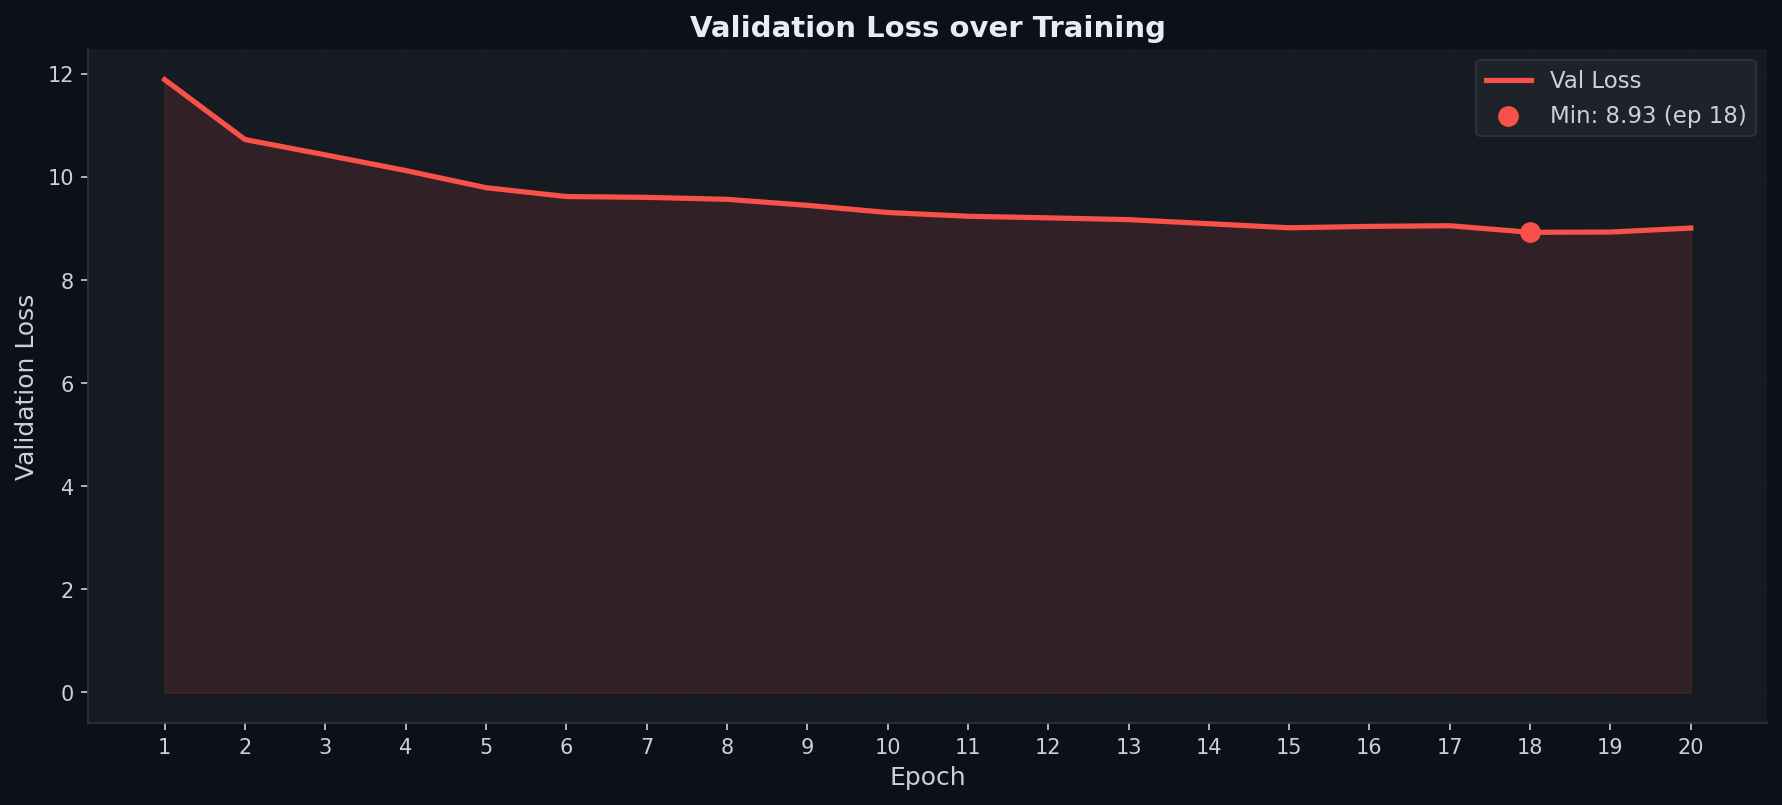
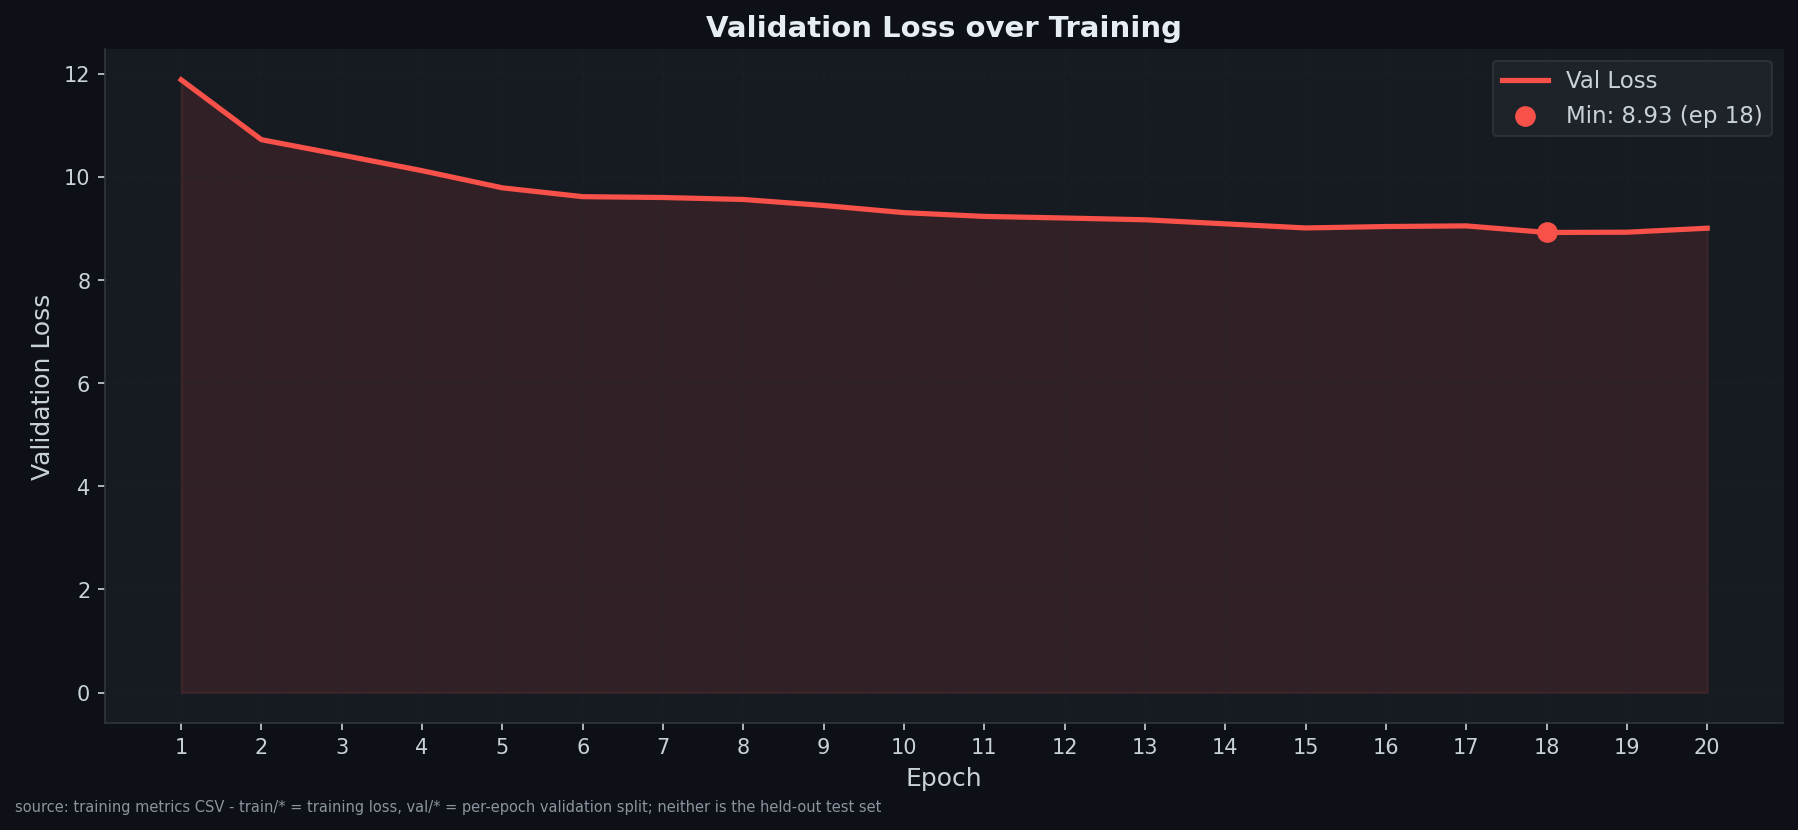
Fix smoothing window and label training charts as non-test data
A window of 1 made rolling(...).mean() the identity, so 'smoothed' curves were the raw series under a misleading legend. Windows below 3 points are now dropped instead of drawn.

Every chart is stamped with its source: train/* is training loss and val/* is the per-epoch validation split, neither of which is the held-out test set. Charts regenerated.

diff --git a/evaluation/Car Damage/Training and Validation/plot_training_metrics.py b/evaluation/Car Damage/Training and Validation/plot_training_metrics.py
@@ -35,6 +35,17 @@ import matplotlib.pyplot as plt
 import matplotlib.patches as mpatches
 from matplotlib.gridspec import GridSpec
 
+# A Windows console defaults to cp1252, which cannot encode the arrows, box
+# characters and check marks used throughout the messages below: the very first
+# print raises UnicodeEncodeError and the script dies before doing any work.
+# Force UTF-8 on the streams that support it.
+for _stream in (sys.stdout, sys.stderr):
+    try:
+        _stream.reconfigure(encoding="utf-8")
+    except Exception:
+        pass
+
+
 # ── CONSTANTS ─────────────────────────────────────────────────────────────────
 CLASSES = ["crack", "dent", "glass shatter", "lamp broken", "scratch", "tire flat"]
 
@@ -108,10 +119,73 @@ def _best_epoch_line(ax, epochs, values, color):
 def _savefig(fig, path, tight=True):
     if tight:
         fig.tight_layout()
+    _stamp_source(fig)
     fig.savefig(path, dpi=150, bbox_inches="tight",
                 facecolor=fig.get_facecolor())
     plt.close(fig)
     print(f"  [PLOT] Saved → {path}")
+
+
+# ── SMOOTHING ─────────────────────────────────────────────────────────────────
+def _smooth_window(n, divisor=20, min_window=3):
+    """
+    Rolling-mean window for a series of n points, or None when a rolling mean
+    would change nothing.
+
+    The window used to be `n // divisor` floored at 1, which is 1 for any
+    series shorter than 40 points -- and a rolling mean of width 1 is the
+    identity. RF-DETR logs one train row per epoch, so this run has 20 of them
+    and the window was always 1: the "smoothed" curve was the raw curve drawn a
+    second time in a heavier stroke, beneath a legend entry advertising
+    smoothing that never happened. A reader takes the heavy line for a trend
+    and the faint one for noise around it, when they are the same numbers.
+    Returning None instead lets the caller draw a single honest line.
+    """
+    w = max(1, int(n) // divisor)
+    return w if w >= min_window else None
+
+
+def _roll(series, w):
+    """Rolling mean when w is a real window, otherwise the series untouched."""
+    return series.rolling(w, center=True, min_periods=1).mean() if w else series
+
+
+def _plot_series(ax, x, raw, color, label, w, lw=2.5, fill=True,
+                 fill_alpha=0.10, raw_lw=1.2, raw_alpha=0.30):
+    """
+    Plot `raw`, overlaying a rolling mean only when `w` is a real window.
+    Returns the series drawn as the primary line.
+    """
+    if w:
+        ax.plot(x, raw, color=color, lw=raw_lw, alpha=raw_alpha, label="Raw")
+        series = _roll(raw, w)
+        lbl = f"{label} (rolling mean, w={w})"
+    else:
+        series = raw
+        lbl = label
+    ax.plot(x, series, color=color, lw=lw, label=lbl)
+    if fill:
+        ax.fill_between(x, series, alpha=fill_alpha, color=color)
+    return series
+
+
+# ── PROVENANCE ────────────────────────────────────────────────────────────────
+# Every figure here comes from the training CSV: train/* are training-time
+# losses, val/* are the split RF-DETR scored at the end of each epoch. Neither
+# is the held-out test set, and the val/* numbers are NOT the test-set results
+# produced by evaluate_rfdetr_*.py -- those use a different evaluator
+# configuration and must never be quoted interchangeably with these. Each
+# figure carries the line below so a chart lifted out of this directory and
+# dropped into a report still states which split it came from.
+SPLIT_NOTE = ("source: training metrics CSV - train/* = training loss, "
+              "val/* = per-epoch validation split; neither is the held-out "
+              "test set")
+
+
+def _stamp_source(fig):
+    fig.text(0.005, 0.002, SPLIT_NOTE, fontsize=7, color="#8B949E",
+             ha="left", va="bottom")
+
 
 
 # ── DATA LOADING ──────────────────────────────────────────────────────────────
@@ -278,13 +352,8 @@ def plot_train_loss_total(train_df, out):
     fig, ax = plt.subplots(figsize=(12, 5.5))
 
     st = train_df["step_f"]
-    ax.plot(st, train_df["train/loss"], color=C_LOSS, lw=2.0, alpha=0.4, label="Raw")
-
-    # Smoothed
-    w = max(1, len(train_df) // 20)
-    smoothed = train_df["train/loss"].rolling(w, center=True, min_periods=1).mean()
-    ax.plot(st, smoothed, color=C_LOSS, lw=2.5, label=f"Smoothed (w={w})")
-    ax.fill_between(st, smoothed, alpha=0.10, color=C_LOSS)
+    w  = _smooth_window(len(train_df))
+    _plot_series(ax, st, train_df["train/loss"], C_LOSS, "Total loss", w)
 
     ax.set_xlabel("Training Step", fontsize=12)
     ax.set_ylabel("Total Loss", fontsize=12)
@@ -313,7 +382,7 @@ def plot_train_loss_components(train_df, out):
                  fontsize=14, fontweight="bold", color="#E6EDF3", y=1.01)
 
     st = train_df["step_f"]
-    w  = max(1, len(train_df) // 20)
+    w  = _smooth_window(len(train_df))
 
     for idx, (label, (col_name, color)) in enumerate(components.items()):
         ax = axes[idx // 3][idx % 3]
@@ -321,11 +390,8 @@ def plot_train_loss_components(train_df, out):
             ax.set_visible(False)
             continue
 
-        raw      = train_df[col_name]
-        smoothed = raw.rolling(w, center=True, min_periods=1).mean()
-        ax.plot(st, raw,      color=color, lw=1.2, alpha=0.30)
-        ax.plot(st, smoothed, color=color, lw=2.2, label=label)
-        ax.fill_between(st, smoothed, alpha=0.12, color=color)
+        _plot_series(ax, st, train_df[col_name], color, label, w,
+                     lw=2.2, fill_alpha=0.12)
 
         ax.set_title(label, fontsize=11, fontweight="bold", color=color)
         ax.set_xlabel("Step", fontsize=9)
@@ -335,7 +401,7 @@ def plot_train_loss_components(train_df, out):
     ax = axes[1][2]
     for label, (col_name, color) in components.items():
         if col_name in train_df.columns:
-            sm = train_df[col_name].rolling(w, center=True, min_periods=1).mean()
+            sm = _roll(train_df[col_name], w)
             ax.plot(st, sm, color=color, lw=1.8, label=label)
     ax.set_title("All Components (overlay)", fontsize=11, fontweight="bold")
     ax.set_xlabel("Step"); ax.set_ylabel("Loss")
@@ -365,13 +431,13 @@ def plot_train_loss_auxiliary(train_df, out):
                  fontsize=14, fontweight="bold", color="#E6EDF3", y=1.01)
 
     st = train_df["step_f"]
-    w  = max(1, len(train_df) // 20)
+    w  = _smooth_window(len(train_df))
 
     for idx, (group_label, cols) in enumerate(aux_groups.items()):
         ax = axes[idx // 2][idx % 2]
         for ci, (col, lbl) in enumerate(zip(cols, layer_labels)):
             if col in train_df.columns:
-                sm = train_df[col].rolling(w, center=True, min_periods=1).mean()
+                sm = _roll(train_df[col], w)
                 ax.plot(st, sm, color=layer_colors[ci], lw=1.8, label=lbl)
 
         ax.set_title(group_label, fontsize=11, fontweight="bold")
@@ -509,7 +575,7 @@ def plot_cardinality_error(train_df, out):
     fig, ax = plt.subplots(figsize=(12, 5.0))
 
     st = train_df["step_f"]
-    w  = max(1, len(train_df) // 20)
+    w  = _smooth_window(len(train_df))
 
     layers = {
         "Main":    ("train/cardinality_error",   "#58A6FF"),
@@ -522,7 +588,7 @@ def plot_cardinality_error(train_df, out):
 
     for lbl, (col, color) in layers.items():
         if col in train_df.columns:
-            sm = train_df[col].rolling(w, center=True, min_periods=1).mean()
+            sm = _roll(train_df[col], w)
             ax.plot(st, sm, color=color, lw=1.8, label=lbl)
 
     ax.set_xlabel("Training Step", fontsize=12)
@@ -544,16 +610,13 @@ def plot_combined_dashboard(val_df, train_df, out):
 
     ep = val_df["epoch_f"]
     st = train_df["step_f"]
-    w  = max(1, len(train_df) // 20)
+    w  = _smooth_window(len(train_df))
 
     # ─── Top-left: Training loss ───────────────────────────────────────────
     ax1 = fig.add_subplot(gs[0, 0])
     ax1.set_facecolor("#161B22")
-    raw      = train_df["train/loss"]
-    smoothed = raw.rolling(w, center=True, min_periods=1).mean()
-    ax1.plot(st, raw,      color=C_LOSS, lw=1.0, alpha=0.30)
-    ax1.plot(st, smoothed, color=C_LOSS, lw=2.5, label="Total loss (smoothed)")
-    ax1.fill_between(st, smoothed, alpha=0.10, color=C_LOSS)
+    _plot_series(ax1, st, train_df["train/loss"], C_LOSS, "Total loss", w,
+                 raw_lw=1.0)
     ax1.set_title("Training Loss", fontsize=12, fontweight="bold")
     ax1.set_xlabel("Step"); ax1.set_ylabel("Loss")
     ax1.legend(fontsize=9)

diff --git a/evaluation/Car Parts/Training and Validation/plot_parts_metrics.py b/evaluation/Car Parts/Training and Validation/plot_parts_metrics.py
@@ -36,6 +36,17 @@ import matplotlib.pyplot as plt
 import matplotlib.patches as mpatches
 from matplotlib.gridspec import GridSpec
 
+# A Windows console defaults to cp1252, which cannot encode the arrows, box
+# characters and check marks used throughout the messages below: the very first
+# print raises UnicodeEncodeError and the script dies before doing any work.
+# Force UTF-8 on the streams that support it.
+for _stream in (sys.stdout, sys.stderr):
+    try:
+        _stream.reconfigure(encoding="utf-8")
+    except Exception:
+        pass
+
+
 # ── CONSTANTS ─────────────────────────────────────────────────────────────────
 # CSV column suffix → display label
 CLASSES = [
@@ -167,10 +178,73 @@ def _best_epoch_line(ax, epochs, values, color):
 def _savefig(fig, path, tight=True):
     if tight:
         fig.tight_layout()
+    _stamp_source(fig)
     fig.savefig(path, dpi=150, bbox_inches="tight",
                 facecolor=fig.get_facecolor())
     plt.close(fig)
     print(f"  [PLOT] Saved → {path}")
+
+
+# ── SMOOTHING ─────────────────────────────────────────────────────────────────
+def _smooth_window(n, divisor=20, min_window=3):
+    """
+    Rolling-mean window for a series of n points, or None when a rolling mean
+    would change nothing.
+
+    The window used to be `n // divisor` floored at 1, which is 1 for any
+    series shorter than 40 points -- and a rolling mean of width 1 is the
+    identity. RF-DETR logs one train row per epoch, so this run has 20 of them
+    and the window was always 1: the "smoothed" curve was the raw curve drawn a
+    second time in a heavier stroke, beneath a legend entry advertising
+    smoothing that never happened. A reader takes the heavy line for a trend
+    and the faint one for noise around it, when they are the same numbers.
+    Returning None instead lets the caller draw a single honest line.
+    """
+    w = max(1, int(n) // divisor)
+    return w if w >= min_window else None
+
+
+def _roll(series, w):
+    """Rolling mean when w is a real window, otherwise the series untouched."""
+    return series.rolling(w, center=True, min_periods=1).mean() if w else series
+
+
+def _plot_series(ax, x, raw, color, label, w, lw=2.5, fill=True,
+                 fill_alpha=0.10, raw_lw=1.2, raw_alpha=0.30):
+    """
+    Plot `raw`, overlaying a rolling mean only when `w` is a real window.
+    Returns the series drawn as the primary line.
+    """
+    if w:
+        ax.plot(x, raw, color=color, lw=raw_lw, alpha=raw_alpha, label="Raw")
+        series = _roll(raw, w)
+        lbl = f"{label} (rolling mean, w={w})"
+    else:
+        series = raw
+        lbl = label
+    ax.plot(x, series, color=color, lw=lw, label=lbl)
+    if fill:
+        ax.fill_between(x, series, alpha=fill_alpha, color=color)
+    return series
+
+
+# ── PROVENANCE ────────────────────────────────────────────────────────────────
+# Every figure here comes from the training CSV: train/* are training-time
+# losses, val/* are the split RF-DETR scored at the end of each epoch. Neither
+# is the held-out test set, and the val/* numbers are NOT the test-set results
+# produced by evaluate_rfdetr_*.py -- those use a different evaluator
+# configuration and must never be quoted interchangeably with these. Each
+# figure carries the line below so a chart lifted out of this directory and
+# dropped into a report still states which split it came from.
+SPLIT_NOTE = ("source: training metrics CSV - train/* = training loss, "
+              "val/* = per-epoch validation split; neither is the held-out "
+              "test set")
+
+
+def _stamp_source(fig):
+    fig.text(0.005, 0.002, SPLIT_NOTE, fontsize=7, color="#8B949E",
+             ha="left", va="bottom")
+
 
 
 # ── DATA LOADING ──────────────────────────────────────────────────────────────
@@ -341,13 +415,8 @@ def plot_train_loss_total(train_df, out):
     fig, ax = plt.subplots(figsize=(12, 5.5))
 
     st = train_df["step_f"]
-    ax.plot(st, train_df["train/loss"], color=C_LOSS, lw=2.0, alpha=0.4, label="Raw")
-
-    # Smoothed
-    w = max(1, len(train_df) // 20)
-    smoothed = train_df["train/loss"].rolling(w, center=True, min_periods=1).mean()
-    ax.plot(st, smoothed, color=C_LOSS, lw=2.5, label=f"Smoothed (w={w})")
-    ax.fill_between(st, smoothed, alpha=0.10, color=C_LOSS)
+    w  = _smooth_window(len(train_df))
+    _plot_series(ax, st, train_df["train/loss"], C_LOSS, "Total loss", w)
 
     ax.set_xlabel("Training Step", fontsize=12)
     ax.set_ylabel("Total Loss", fontsize=12)
@@ -376,7 +445,7 @@ def plot_train_loss_components(train_df, out):
                  fontsize=14, fontweight="bold", color="#E6EDF3", y=1.01)
 
     st = train_df["step_f"]
-    w  = max(1, len(train_df) // 20)
+    w  = _smooth_window(len(train_df))
 
     for idx, (label, (col_name, color)) in enumerate(components.items()):
         ax = axes[idx // 3][idx % 3]
@@ -384,11 +453,8 @@ def plot_train_loss_components(train_df, out):
             ax.set_visible(False)
             continue
 
-        raw      = train_df[col_name]
-        smoothed = raw.rolling(w, center=True, min_periods=1).mean()
-        ax.plot(st, raw,      color=color, lw=1.2, alpha=0.30)
-        ax.plot(st, smoothed, color=color, lw=2.2, label=label)
-        ax.fill_between(st, smoothed, alpha=0.12, color=color)
+        _plot_series(ax, st, train_df[col_name], color, label, w,
+                     lw=2.2, fill_alpha=0.12)
 
         ax.set_title(label, fontsize=11, fontweight="bold", color=color)
         ax.set_xlabel("Step", fontsize=9)
@@ -398,7 +464,7 @@ def plot_train_loss_components(train_df, out):
     ax = axes[1][2]
     for label, (col_name, color) in components.items():
         if col_name in train_df.columns:
-            sm = train_df[col_name].rolling(w, center=True, min_periods=1).mean()
+            sm = _roll(train_df[col_name], w)
             ax.plot(st, sm, color=color, lw=1.8, label=label)
     ax.set_title("All Components (overlay)", fontsize=11, fontweight="bold")
     ax.set_xlabel("Step"); ax.set_ylabel("Loss")
@@ -428,13 +494,13 @@ def plot_train_loss_auxiliary(train_df, out):
                  fontsize=14, fontweight="bold", color="#E6EDF3", y=1.01)
 
     st = train_df["step_f"]
-    w  = max(1, len(train_df) // 20)
+    w  = _smooth_window(len(train_df))
 
     for idx, (group_label, cols) in enumerate(aux_groups.items()):
         ax = axes[idx // 2][idx % 2]
         for ci, (col, lbl) in enumerate(zip(cols, layer_labels)):
             if col in train_df.columns:
-                sm = train_df[col].rolling(w, center=True, min_periods=1).mean()
+                sm = _roll(train_df[col], w)
                 ax.plot(st, sm, color=layer_colors[ci], lw=1.8, label=lbl)
 
         ax.set_title(group_label, fontsize=11, fontweight="bold")
@@ -580,7 +646,7 @@ def plot_cardinality_error(train_df, out):
     fig, ax = plt.subplots(figsize=(12, 5.0))
 
     st = train_df["step_f"]
-    w  = max(1, len(train_df) // 20)
+    w  = _smooth_window(len(train_df))
 
     layers = {
         "Main":    ("train/cardinality_error",   "#58A6FF"),
@@ -592,7 +658,7 @@ def plot_cardinality_error(train_df, out):
 
     for lbl, (col, color) in layers.items():
         if col in train_df.columns:
-            sm = train_df[col].rolling(w, center=True, min_periods=1).mean()
+            sm = _roll(train_df[col], w)
             ax.plot(st, sm, color=color, lw=1.8, label=lbl)
 
     ax.set_xlabel("Training Step", fontsize=12)
@@ -614,16 +680,13 @@ def plot_combined_dashboard(val_df, train_df, out):
 
     ep = val_df["epoch_f"]
     st = train_df["step_f"]
-    w  = max(1, len(train_df) // 20)
+    w  = _smooth_window(len(train_df))
 
     # ─── Top-left: Training loss ───────────────────────────────────────────
     ax1 = fig.add_subplot(gs[0, 0])
     ax1.set_facecolor("#161B22")
-    raw      = train_df["train/loss"]
-    smoothed = raw.rolling(w, center=True, min_periods=1).mean()
-    ax1.plot(st, raw,      color=C_LOSS, lw=1.0, alpha=0.30)
-    ax1.plot(st, smoothed, color=C_LOSS, lw=2.5, label="Total loss (smoothed)")
-    ax1.fill_between(st, smoothed, alpha=0.10, color=C_LOSS)
+    _plot_series(ax1, st, train_df["train/loss"], C_LOSS, "Total loss", w,
+                 raw_lw=1.0)
     ax1.set_title("Training Loss", fontsize=12, fontweight="bold")
     ax1.set_xlabel("Step"); ax1.set_ylabel("Loss")
     ax1.legend(fontsize=9)
